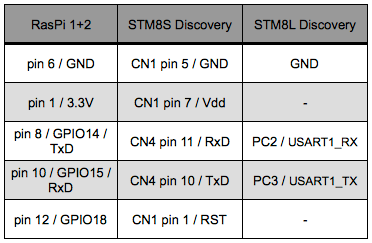
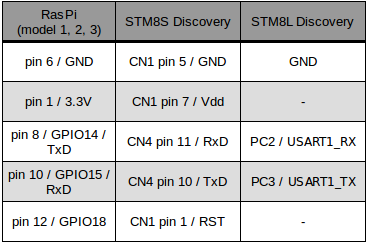
updated for Pi3

diff --git a/bootloader.c b/bootloader.c
@@ -66,7 +66,7 @@ uint8_t bsl_sync(HANDLE ptrPort) {
     len = send_port(ptrPort, lenTx, Tx);
     if (len != lenTx) {
       setConsoleColor(PRM_COLOR_RED);
-      fprintf(stderr, "\n\nerror in 'bsl_sync()': sending command failed, exit!\n\n");
+      fprintf(stderr, "\n\nerror in 'bsl_sync()': sending command failed (expect %d, sent %d), exit!\n\n", lenTx, len);
       Exit(1, g_pauseOnExit);
     }
         
@@ -220,7 +220,7 @@ uint8_t bsl_getInfo(HANDLE ptrPort, int *flashsize, uint8_t *vers, uint8_t *fami
   len = send_port(ptrPort, lenTx, Tx);
   if (len != lenTx) {
     setConsoleColor(PRM_COLOR_RED);
-    fprintf(stderr, "\n\nerror in 'bsl_getInfo()': sending command failed, exit!\n\n");
+    fprintf(stderr, "\n\nerror in 'bsl_getInfo()': sending command failed (expect %d, sent %d), exit!\n\n", lenTx, len);
     Exit(1, g_pauseOnExit);
   }
     
@@ -228,7 +228,7 @@ uint8_t bsl_getInfo(HANDLE ptrPort, int *flashsize, uint8_t *vers, uint8_t *fami
   len = receive_port(ptrPort, lenRx, Rx);
   if (len != lenRx) {
     setConsoleColor(PRM_COLOR_RED);
-    fprintf(stderr, "\n\nerror in 'bsl_getInfo()': ACK timeout, exit!\n\n");
+    fprintf(stderr, "\n\nerror in 'bsl_getInfo()': ACK timeout (expect %d, received %d), exit!\n\n", lenRx, len);
     Exit(1, g_pauseOnExit);
   }
     
@@ -368,7 +368,7 @@ uint8_t bsl_memRead(HANDLE ptrPort, uint32_t addrStart, uint32_t numBytes, char 
     len = send_port(ptrPort, lenTx, Tx);
     if (len != lenTx) {
       setConsoleColor(PRM_COLOR_RED);
-      fprintf(stderr, "\n\nerror in 'bsl_memRead()': sending command failed, exit!\n\n");
+      fprintf(stderr, "\n\nerror in 'bsl_memRead()': sending command failed (expect %d, sent %d), exit!\n\n", lenTx, len);
       Exit(1, g_pauseOnExit);
     }
     
@@ -405,7 +405,7 @@ uint8_t bsl_memRead(HANDLE ptrPort, uint32_t addrStart, uint32_t numBytes, char 
     len = send_port(ptrPort, lenTx, Tx);
     if (len != lenTx) {      
       setConsoleColor(PRM_COLOR_RED);
-      fprintf(stderr, "\n\nerror in 'bsl_memRead()': sending address failed, exit!\n\n");
+      fprintf(stderr, "\n\nerror in 'bsl_memRead()': sending address failed (expect %d, sent %d), exit!\n\n", lenTx, len);
       Exit(1, g_pauseOnExit);
     }
 
@@ -413,7 +413,7 @@ uint8_t bsl_memRead(HANDLE ptrPort, uint32_t addrStart, uint32_t numBytes, char 
     len = receive_port(ptrPort, lenRx, Rx);
     if (len != lenRx) {      
       setConsoleColor(PRM_COLOR_RED);
-      fprintf(stderr, "\n\nerror in 'bsl_memRead()': ACK2 timeout, exit!\n\n");
+      fprintf(stderr, "\n\nerror in 'bsl_memRead()': ACK2 timeout (expect %d, received %d), exit!\n\n", lenRx, len);
       Exit(1, g_pauseOnExit);
     }
     
@@ -439,7 +439,7 @@ uint8_t bsl_memRead(HANDLE ptrPort, uint32_t addrStart, uint32_t numBytes, char 
     len = send_port(ptrPort, lenTx, Tx);
     if (len != lenTx) {
       setConsoleColor(PRM_COLOR_RED);
-      fprintf(stderr, "\n\nerror in 'bsl_memRead()': sending range failed, exit!\n\n");
+      fprintf(stderr, "\n\nerror in 'bsl_memRead()': sending range failed (expect %d, sent %d), exit!\n\n", lenTx, len);
       Exit(1, g_pauseOnExit);
     }
 
@@ -447,7 +447,7 @@ uint8_t bsl_memRead(HANDLE ptrPort, uint32_t addrStart, uint32_t numBytes, char 
     len = receive_port(ptrPort, lenRx, Rx);
     if (len != lenRx) {
       setConsoleColor(PRM_COLOR_RED);
-      fprintf(stderr, "\n\nerror in 'bsl_memRead()': data timeout, exit!\n\n");
+      fprintf(stderr, "\n\nerror in 'bsl_memRead()': data timeout (expect %d, received %d), exit!\n\n", lenRx, len);
       Exit(1, g_pauseOnExit);
     }
     
@@ -553,7 +553,7 @@ uint8_t bsl_memCheck(HANDLE ptrPort, uint32_t addr) {
   len = send_port(ptrPort, lenTx, Tx);
   if (len != lenTx) {
     setConsoleColor(PRM_COLOR_RED);
-    fprintf(stderr, "\n\nerror in 'bsl_memCheck()': sending command failed, exit!\n\n");
+    fprintf(stderr, "\n\nerror in 'bsl_memCheck()': sending command failed (expect %d, sent %d), exit!\n\n", lenTx, len);
     Exit(1, g_pauseOnExit);
   }
     
@@ -561,7 +561,7 @@ uint8_t bsl_memCheck(HANDLE ptrPort, uint32_t addr) {
   len = receive_port(ptrPort, lenRx, Rx);
   if (len != lenRx) {
     setConsoleColor(PRM_COLOR_RED);
-    fprintf(stderr, "\n\nerror in 'bsl_memCheck()': ACK1 timeout, exit!\n\n");
+    fprintf(stderr, "\n\nerror in 'bsl_memCheck()': ACK1 timeout (expect %d, received %d), exit!\n\n", lenRx, len);
     Exit(1, g_pauseOnExit);
   }
     
@@ -590,7 +590,7 @@ uint8_t bsl_memCheck(HANDLE ptrPort, uint32_t addr) {
   len = send_port(ptrPort, lenTx, Tx);
   if (len != lenTx) {      
     setConsoleColor(PRM_COLOR_RED);
-    fprintf(stderr, "\n\nerror in 'bsl_memCheck()': sending address failed, exit!\n\n");
+    fprintf(stderr, "\n\nerror in 'bsl_memCheck()': sending address failed (expect %d, sent %d), exit!\n\n", lenTx, len);
     Exit(1, g_pauseOnExit);
   }
 
@@ -598,7 +598,7 @@ uint8_t bsl_memCheck(HANDLE ptrPort, uint32_t addr) {
   len = receive_port(ptrPort, lenRx, Rx);
   if (len != lenRx) {      
     setConsoleColor(PRM_COLOR_RED);
-    fprintf(stderr, "\n\nerror in 'bsl_memCheck()': ACK2 timeout, exit!\n\n");
+    fprintf(stderr, "\n\nerror in 'bsl_memCheck()': ACK2 timeout (expect %d, received %d), exit!\n\n", lenRx, len);
     Exit(1, g_pauseOnExit);
   }
     
@@ -622,7 +622,7 @@ uint8_t bsl_memCheck(HANDLE ptrPort, uint32_t addr) {
   len = send_port(ptrPort, lenTx, Tx);
   if (len != lenTx) {
     setConsoleColor(PRM_COLOR_RED);
-    fprintf(stderr, "\n\nerror in 'bsl_memCheck()': sending range failed, exit!\n\n");
+    fprintf(stderr, "\n\nerror in 'bsl_memCheck()': sending range failed (expect %d, sent %d), exit!\n\n", lenTx, len);
     Exit(1, g_pauseOnExit);
   }
 
@@ -630,7 +630,7 @@ uint8_t bsl_memCheck(HANDLE ptrPort, uint32_t addr) {
   len = receive_port(ptrPort, lenRx, Rx);
   if (len != lenRx) {
     setConsoleColor(PRM_COLOR_RED);
-    fprintf(stderr, "\n\nerror in 'bsl_memCheck()': data timeout, exit!\n\n");
+    fprintf(stderr, "\n\nerror in 'bsl_memCheck()': data timeout (expect %d, received %d), exit!\n\n", lenRx, len);
     Exit(1, g_pauseOnExit);
   }
     
@@ -706,7 +706,7 @@ uint8_t bsl_flashSectorErase(HANDLE ptrPort, uint32_t addr) {
   len = send_port(ptrPort, lenTx, Tx);
   if (len != lenTx) {
     setConsoleColor(PRM_COLOR_RED);
-    fprintf(stderr, "\n\nerror in 'bsl_flashSectorErase()': sending command failed, exit!\n\n");
+    fprintf(stderr, "\n\nerror in 'bsl_flashSectorErase()': sending command failed (expect %d, sent %d), exit!\n\n", lenTx, len);
     Exit(1, g_pauseOnExit);
   }
 
@@ -714,7 +714,7 @@ uint8_t bsl_flashSectorErase(HANDLE ptrPort, uint32_t addr) {
   len = receive_port(ptrPort, lenRx, Rx);
   if (len != lenRx) {
     setConsoleColor(PRM_COLOR_RED);
-    fprintf(stderr, "\n\nerror in 'bsl_flashSectorErase()': ACK1 timeout, exit!\n\n");
+    fprintf(stderr, "\n\nerror in 'bsl_flashSectorErase()': ACK1 timeout (expect %d, received %d), exit!\n\n", lenRx, len);
     Exit(1, g_pauseOnExit);
   }
   
@@ -741,7 +741,7 @@ uint8_t bsl_flashSectorErase(HANDLE ptrPort, uint32_t addr) {
   len = send_port(ptrPort, lenTx, Tx);
   if (len != lenTx) {
     setConsoleColor(PRM_COLOR_RED);
-    fprintf(stderr, "\n\nerror in 'bsl_flashSectorErase()': sending sector failed, exit!\n\n");
+    fprintf(stderr, "\n\nerror in 'bsl_flashSectorErase()': sending sector failed (expect %d, sent %d), exit!\n\n", lenTx, len);
     Exit(1, g_pauseOnExit);
   }
 
@@ -754,7 +754,7 @@ uint8_t bsl_flashSectorErase(HANDLE ptrPort, uint32_t addr) {
   len = receive_port(ptrPort, lenRx, Rx);
   if (len != lenRx) {
     setConsoleColor(PRM_COLOR_RED);
-    fprintf(stderr, "\n\nerror in 'bsl_flashSectorErase()': ACK2 timeout, exit!\n\n");
+    fprintf(stderr, "\n\nerror in 'bsl_flashSectorErase()': ACK2 timeout (expect %d, received %d), exit!\n\n", lenTx, len);
     Exit(1, g_pauseOnExit);
   }
   
@@ -824,7 +824,7 @@ uint8_t bsl_flashMassErase(HANDLE ptrPort) {
   len = send_port(ptrPort, lenTx, Tx);
   if (len != lenTx) {
     setConsoleColor(PRM_COLOR_RED);
-    fprintf(stderr, "\n\nerror in 'bsl_flashMassErase()': sending command failed, exit!\n\n");
+    fprintf(stderr, "\n\nerror in 'bsl_flashMassErase()': sending command failed (expect %d, sent %d), exit!\n\n", lenTx, len);
     Exit(1, g_pauseOnExit);
   }
 
@@ -832,7 +832,7 @@ uint8_t bsl_flashMassErase(HANDLE ptrPort) {
   len = receive_port(ptrPort, lenRx, Rx);
   if (len != lenRx) {
     setConsoleColor(PRM_COLOR_RED);
-    fprintf(stderr, "\n\nerror in 'bsl_flashMassErase()': ACK1 timeout, exit!\n\n");
+    fprintf(stderr, "\n\nerror in 'bsl_flashMassErase()': ACK1 timeout (expect %d, received %d), exit!\n\n", lenRx, len);
     Exit(1, g_pauseOnExit);
   }
   
@@ -858,7 +858,7 @@ uint8_t bsl_flashMassErase(HANDLE ptrPort) {
   len = send_port(ptrPort, lenTx, Tx);
   if (len != lenTx) {
     setConsoleColor(PRM_COLOR_RED);
-    fprintf(stderr, "\n\nerror in 'bsl_flashMassErase()': sending trigger failed, exit!\n\n");
+    fprintf(stderr, "\n\nerror in 'bsl_flashMassErase()': sending trigger failed (expect %d, sent %d), exit!\n\n", lenTx, len);
     Exit(1, g_pauseOnExit);
   }
 
@@ -873,7 +873,7 @@ uint8_t bsl_flashMassErase(HANDLE ptrPort) {
   len = receive_port(ptrPort, lenRx, Rx);
   if (len != lenRx) {
     setConsoleColor(PRM_COLOR_RED);
-    fprintf(stderr, "\n\nerror in 'bsl_flashMassErase()': ACK2 timeout, exit!\n\n");
+    fprintf(stderr, "\n\nerror in 'bsl_flashMassErase()': ACK2 timeout (expect %d, received %d), exit!\n\n", lenRx, len);
     Exit(1, g_pauseOnExit);
   }
   
@@ -981,7 +981,7 @@ uint8_t bsl_memWrite(HANDLE ptrPort, uint32_t addrStart, uint32_t numBytes, char
     len = send_port(ptrPort, lenTx, Tx);
     if (len != lenTx) {
       setConsoleColor(PRM_COLOR_RED);
-      fprintf(stderr, "\n\nerror in 'bsl_memWrite()': sending command failed, exit!\n\n");
+      fprintf(stderr, "\n\nerror in 'bsl_memWrite()': sending command failed (expect %d, sent %d), exit!\n\n", lenTx, len);
       Exit(1, g_pauseOnExit);
     }
     
@@ -989,7 +989,7 @@ uint8_t bsl_memWrite(HANDLE ptrPort, uint32_t addrStart, uint32_t numBytes, char
     len = receive_port(ptrPort, lenRx, Rx);
     if (len != lenRx) {
       setConsoleColor(PRM_COLOR_RED);
-      fprintf(stderr, "\n\nerror in 'bsl_memWrite()': ACK1 timeout, exit!\n\n");
+      fprintf(stderr, "\n\nerror in 'bsl_memWrite()': ACK1 timeout (expect %d, received %d), exit!\n\n", lenRx, len);
       Exit(1, g_pauseOnExit);
     }
     
@@ -1018,7 +1018,7 @@ uint8_t bsl_memWrite(HANDLE ptrPort, uint32_t addrStart, uint32_t numBytes, char
     len = send_port(ptrPort, lenTx, Tx);
     if (len != lenTx) {
       setConsoleColor(PRM_COLOR_RED);
-      fprintf(stderr, "\n\nerror in 'bsl_memWrite()': sending address failed, exit!\n\n");
+      fprintf(stderr, "\n\nerror in 'bsl_memWrite()': sending address failed (expect %d, sent %d), exit!\n\n", lenTx, len);
       Exit(1, g_pauseOnExit);
     }
     
@@ -1026,7 +1026,7 @@ uint8_t bsl_memWrite(HANDLE ptrPort, uint32_t addrStart, uint32_t numBytes, char
     len = receive_port(ptrPort, lenRx, Rx);
     if (len != lenRx) {
       setConsoleColor(PRM_COLOR_RED);
-      fprintf(stderr, "\n\nerror in 'bsl_memWrite()': ACK2 timeout, exit!\n\n");
+      fprintf(stderr, "\n\nerror in 'bsl_memWrite()': ACK2 timeout (expect %d, received %d), exit!\n\n", lenRx, len);
       Exit(1, g_pauseOnExit);
     }
     
@@ -1060,7 +1060,7 @@ uint8_t bsl_memWrite(HANDLE ptrPort, uint32_t addrStart, uint32_t numBytes, char
     len = send_port(ptrPort, lenTx, Tx);
     if (len != lenTx) {
       setConsoleColor(PRM_COLOR_RED);
-      fprintf(stderr, "\n\nerror in 'bsl_memWrite()': sending data failed, exit!\n\n");
+      fprintf(stderr, "\n\nerror in 'bsl_memWrite()': sending data failed (expect %d, sent %d), exit!\n\n", lenTx, len);
       Exit(1, g_pauseOnExit);
     }
     
@@ -1068,7 +1068,7 @@ uint8_t bsl_memWrite(HANDLE ptrPort, uint32_t addrStart, uint32_t numBytes, char
     len = receive_port(ptrPort, lenRx, Rx);
     if (len != lenRx) {
       setConsoleColor(PRM_COLOR_RED);
-      fprintf(stderr, "\n\nerror in 'bsl_memWrite()': ACK3 timeout, exit!\n\n");
+      fprintf(stderr, "\n\nerror in 'bsl_memWrite()': ACK3 timeout (expect %d, received %d), exit!\n\n", lenRx, len);
       Exit(1, g_pauseOnExit);
     }
     
@@ -1156,7 +1156,7 @@ uint8_t bsl_jumpTo(HANDLE ptrPort, uint32_t addr) {
   len = send_port(ptrPort, lenTx, Tx);
   if (len != lenTx) {
     setConsoleColor(PRM_COLOR_RED);
-    fprintf(stderr, "\n\nerror in 'bsl_jumpTo()': sending command failed, exit!\n\n");
+    fprintf(stderr, "\n\nerror in 'bsl_jumpTo()': sending command failed (expect %d, sent %d), exit!\n\n", lenTx, len);
     Exit(1, g_pauseOnExit);
   }
     
@@ -1164,7 +1164,7 @@ uint8_t bsl_jumpTo(HANDLE ptrPort, uint32_t addr) {
   len = receive_port(ptrPort, lenRx, Rx);
   if (len != lenRx) {
     setConsoleColor(PRM_COLOR_RED);
-    fprintf(stderr, "\n\nerror in 'bsl_jumpTo()': ACK1 timeout, exit!\n\n");
+    fprintf(stderr, "\n\nerror in 'bsl_jumpTo()': ACK1 timeout (expect %d, received %d), exit!\n\n", lenRx, len);
     Exit(1, g_pauseOnExit);
   }
   
@@ -1193,7 +1193,7 @@ uint8_t bsl_jumpTo(HANDLE ptrPort, uint32_t addr) {
   len = send_port(ptrPort, lenTx, Tx);
   if (len != lenTx) {
     setConsoleColor(PRM_COLOR_RED);
-    fprintf(stderr, "\n\nerror in 'bsl_jumpTo()': sending address failed, exit!\n\n");
+    fprintf(stderr, "\n\nerror in 'bsl_jumpTo()': sending address failed (expect %d, sent %d), exit!\n\n", lenTx, len);
     Exit(1, g_pauseOnExit);
   }
   
@@ -1201,7 +1201,7 @@ uint8_t bsl_jumpTo(HANDLE ptrPort, uint32_t addr) {
   len = receive_port(ptrPort, lenRx, Rx);
   if (len != lenRx) {
     setConsoleColor(PRM_COLOR_RED);
-    fprintf(stderr, "\n\nerror in 'bsl_jumpTo()': ACK2 timeout, exit!\n\n");
+    fprintf(stderr, "\n\nerror in 'bsl_jumpTo()': ACK2 timeout (expect %d, received %d), exit!\n\n", lenRx, len);
     Exit(1, g_pauseOnExit);
   }
   

diff --git a/main.c b/main.c
@@ -92,7 +92,7 @@ int main(int argc, char ** argv) {
   char      *appname;             // name of application without path
   char      portname[STRLEN];     // name of communication port
   int       baudrate;             // communication baudrate [Baud]
-  uint8_t   resetSTM8;            // 0=no reset; 1=HW reset via DTR (RS232/USB) or GPIO18 (Raspi); 2=SW reset by sending 0x55+0xAA
+  uint8_t   resetSTM8;            // 0=no reset; 1=DTR line (RS232), 2=send 'Re5eT!' @ 115.2kBaud, 3=connector pin 12 (Raspi only)
   uint8_t   enableBSL;            // don't enable ROM bootloader after upload (caution!)
   uint8_t   flashErase;           // erase P-flash and D-flash prior to upload
   uint8_t   jumpFlash;            // jump to flash after upload
@@ -187,7 +187,7 @@ int main(int argc, char ** argv) {
       }
     }
 
-    // HW reset STM8 via DTR line (RS232/USB) or GPIO18 (Raspi only)
+    // reset STM8 method: 0=no reset; 1=DTR line (RS232), 2=send 'Re5eT!' @ 115.2kBaud, 3=connector pin 12 (Raspi only)
     else if (!strcmp(argv[i], "-R")) {
       if (i<argc-1) {
         sscanf(argv[++i], "%d", &j);
@@ -266,7 +266,7 @@ int main(int argc, char ** argv) {
       printf("  -b rate                communication baudrate in Baud (default: 230400)\n");
       printf("  -u mode                UART mode: 0=duplex, 1=1-wire reply, 2=2-wire reply (default: duplex)\n");
       #ifdef __ARMEL__
-        printf("  -R ch                  reset STM8: 1=DTR line (RS232), 2=send 'Re5eT!' @ 115.2kBaud, 3=pin1/GPIO18 (Raspi) (default: no reset)\n");
+        printf("  -R ch                  reset STM8: 1=DTR line (RS232), 2=send 'Re5eT!' @ 115.2kBaud, 3=connector pin 12 (Raspi) (default: no reset)\n");
       #else
         printf("  -R ch                  reset STM8: 1=DTR line (RS232), 2=send 'Re5eT!' @ 115.2kBaud (default: no reset)\n");
       #endif
@@ -402,11 +402,11 @@ int main(int argc, char ** argv) {
     set_baudrate(ptrPort, baudrate);  // restore specified baudrate
   }
   
-  // HW reset STM8 using wiringPi pin 1 (=GPIO18) (only Raspberry Pi!)
+  // HW reset STM8 using connector pin 12 (only Raspberry Pi!)
   #ifdef __ARMEL__
     else if (resetSTM8 == 3) {
-      printf("  reset via GPIO18 ... ");
-      pulse_GPIO(1, 10);
+      printf("  reset via connector pin 12 ... ");
+      pulse_GPIO(12, 10);
       printf("ok\n");
       SLEEP(5);                       // allow BSL to initialize
     }

diff --git a/serial_comm.c b/serial_comm.c
@@ -493,18 +493,17 @@ void pulse_DTR(HANDLE fpCom, uint32_t duration) {
    
   \brief generate low pulse on Raspberry pin in [ms] to reset STM8
    
-  \param[in] wiringPin  GPIO following the wiringPi convention
+  \param[in] pin        reset pin (use connector numbering)
   \param[in] duration   duration of DTR low pulse in ms
 
   Generate low pulse on GPIO in [ms] to reset STM8.
   Note: for non-root access add user to group gpio. See https://stackoverflow.com/questions/33831336/wiringpi-non-root-access-to-gpio
-        to get the pin mapping of your respective board, call 'gpio readall' from commandline
 */
 #if defined(__ARMEL__) && defined(USE_WIRING)
 void pulse_GPIO(int pin, uint32_t duration) {
   
-  // initialize wiringPi 
-  wiringPiSetup();
+  // initialize wiringPi. Use connector numbering scheme
+  wiringPiSetupPhys();
   
   // set direction of GPIO to output
   pinMode (pin, OUTPUT);

diff --git a/version.h b/version.h
@@ -19,13 +19,16 @@
 #define _SW_VERSION_H_
 
 /// 16b SW version identifier 
-#define VERSION     ((1<<14) | (1<<6) | (3<<1) | 1)     // -> v1.1.3
+#define VERSION     ((1<<14) | (1<<6) | (4<<1) | 1)     // -> v1.1.4
 
 #endif // _SW_VERSION_H_
 
 
 /********************
  *  add description of changes below
+
+  v1.1.4 (2017-12-xx)
+    - add user-space access to RasPi GPIOs via wiringPi. Use connector numbering scheme (="physical")
 
   v1.1.3 (2017-08-29)
     - renamed from "STM8_serial_flasher" to "stm8gal", following a proposal by Philipp Krause (see https://github.com/gicking/STM8_serial_flasher/issues/10)

diff --git a/README.md b/README.md
@@ -19,6 +19,10 @@ Georg
 Revision History
 ----------------
 
+v1.1.4 (2017-12-xx)
+  - add user-space access to RasPi GPIOs via wiringPi. Use connector numbering scheme (="physical")
+
+----------------
 v1.1.3 (2017-08-29)
   - renamed from "STM8_serial_flasher" to "stm8gal", following a proposal by Philipp Krause (see https://github.com/gicking/STM8_serial_flasher/issues/10)
 
